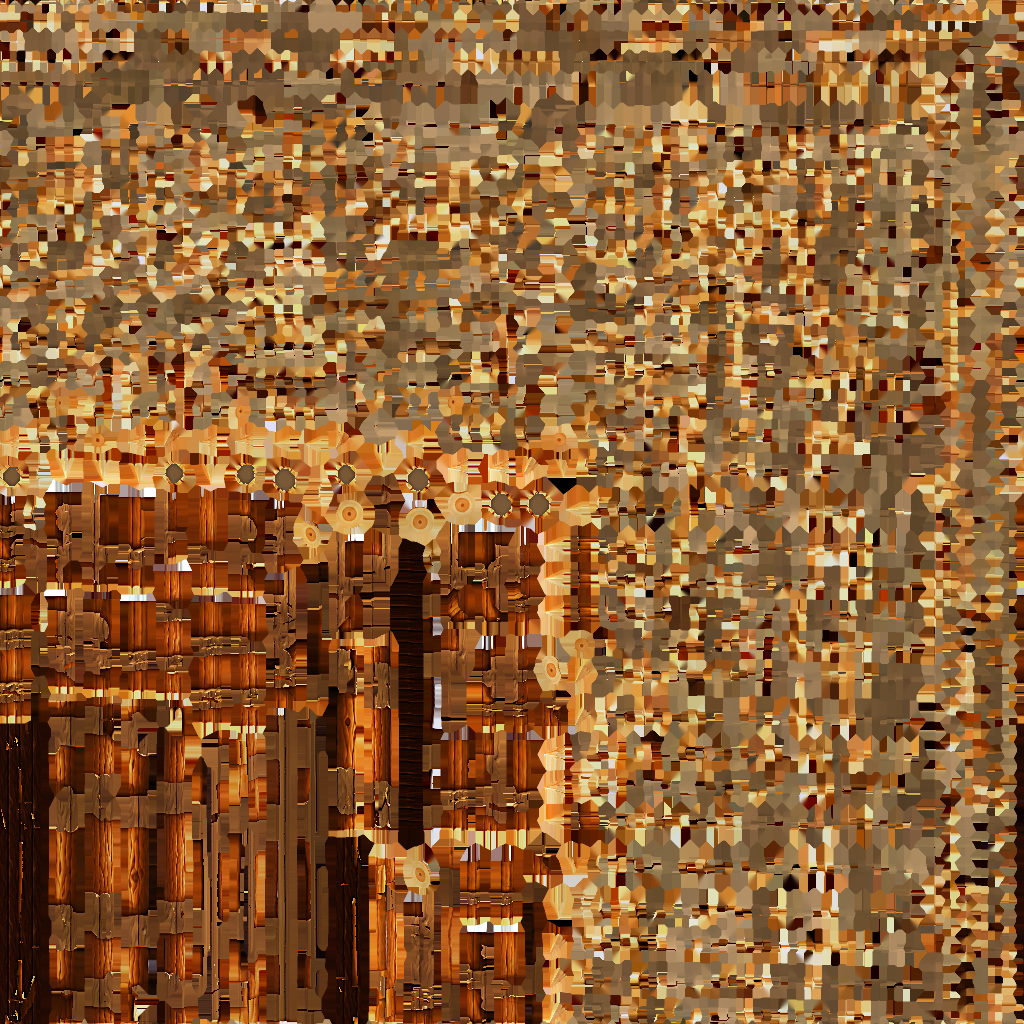
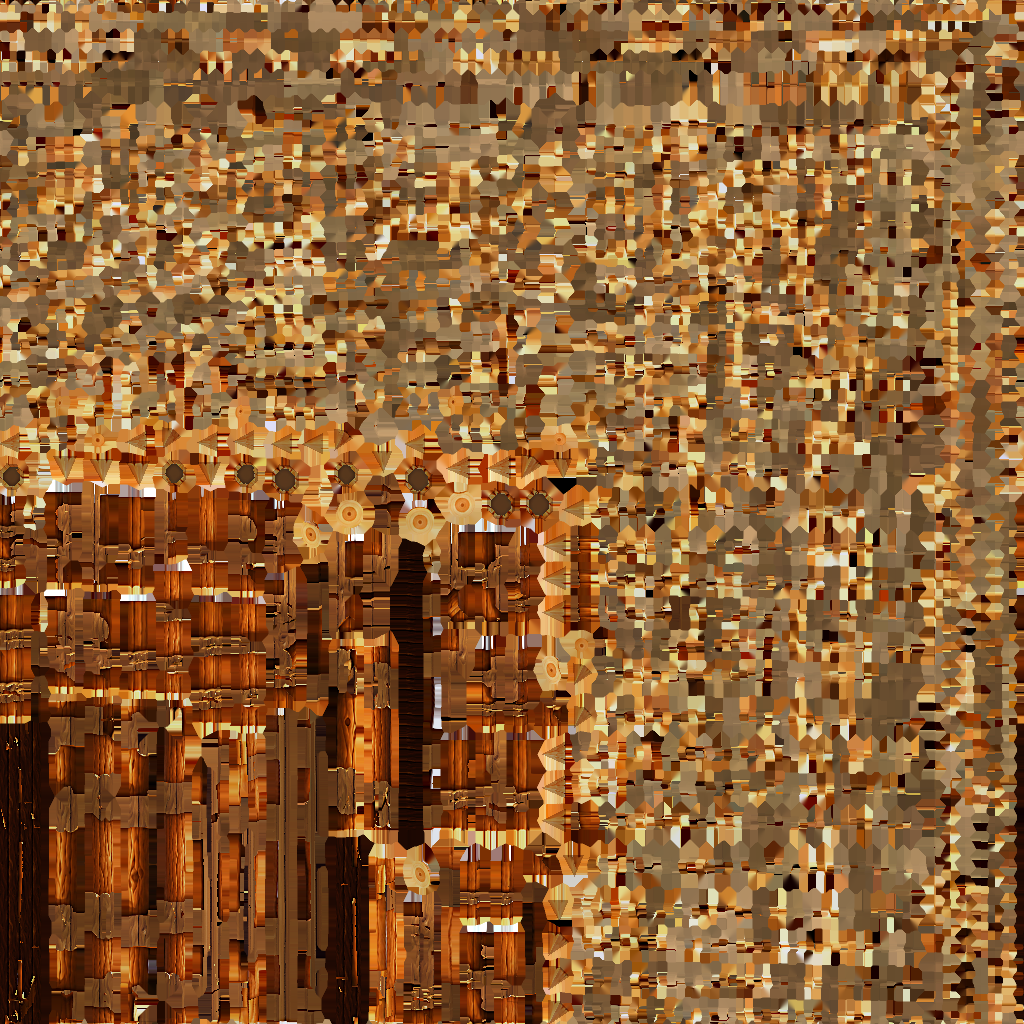
Oak Barricade Level 1 round 13: pencil tips toned to a darker, warmer wood after the grade
art/blender/tone_tips.py changes only the texels inside the points' cones (POSTS printed by the builder with
HTD_PRINT_POSTS=1). Gates still pass (outline 96.4%, colour 9.8, detail 0.89), judge 6 / 8 / 7.

diff --git a/art/blender/tone_tips.py b/art/blender/tone_tips.py
@@ -1,0 +1,72 @@
+"""Tones the pencil points of a barricade's paint down to a darker, warmer wood after the grade (on a phone the bright
+points stole the eye). Only texels inside a point's cone change.
+Run: blender -b -P tone_tips.py -- model.fbx paint.png posts.json out.png [r g b]"""
+import json
+import math
+import os
+import sys
+
+import bpy
+import numpy as np
+
+HERE = os.path.dirname(os.path.abspath(__file__))
+args = sys.argv[sys.argv.index("--") + 1:]
+fbx, paint, posts_path, out = [os.path.abspath(a) for a in args[:4]]
+gain = np.array([float(v) for v in args[4:7]]) if len(args) >= 7 else np.array([0.72, 0.62, 0.52])
+posts = json.load(open(posts_path))
+
+bpy.ops.wm.read_factory_settings(use_empty=True)
+bpy.ops.import_scene.fbx(filepath=fbx)
+body = next(o for o in bpy.context.scene.objects if o.type == "MESH" and o.name.startswith("Body"))
+bpy.context.view_layer.objects.active = body
+body.select_set(True)
+bpy.ops.object.transform_apply(location=True, rotation=True, scale=True)
+
+img = bpy.data.images.load(paint)
+w, h = img.size
+px = np.empty(w * h * 4, dtype=np.float32)
+img.pixels.foreach_get(px)
+px = np.flipud(px.reshape(h, w, 4))
+
+m = body.data
+m.calc_loop_triangles()
+verts = np.array([v.co[:] for v in m.vertices])
+uv = m.uv_layers.active.data
+changed = np.zeros((h, w), dtype=bool)
+
+
+def in_tip(p):
+    for x, y, r, top, tip in posts:
+        if top - tip - 0.03 <= p[2] <= top + 0.03:
+            rr = r * 1.06 * max(0.0, (top - p[2]) / tip) + 0.04
+            if math.hypot(p[0] - x, p[1] - y) <= rr:
+                return True
+    return False
+
+
+for lt in m.loop_triangles:
+    tri = verts[list(lt.vertices)]
+    cen = tri.mean(axis=0)
+    if not in_tip(cen):
+        continue
+    uvs = np.array([uv[li].uv[:] for li in lt.loops]) * [w, h]
+    uvs[:, 1] = h - uvs[:, 1]
+    x0, x1 = int(max(0, math.floor(uvs[:, 0].min()) - 1)), int(min(w - 1, math.ceil(uvs[:, 0].max()) + 1))
+    y0, y1 = int(max(0, math.floor(uvs[:, 1].min()) - 1)), int(min(h - 1, math.ceil(uvs[:, 1].max()) + 1))
+    (ax, ay), (bx, by), (cx, cy) = uvs
+    den = (by - cy) * (ax - cx) + (cx - bx) * (ay - cy)
+    if abs(den) < 1e-9:
+        continue
+    ys, xs = np.mgrid[y0:y1 + 1, x0:x1 + 1]
+    a = ((by - cy) * (xs + 0.5 - cx) + (cx - bx) * (ys + 0.5 - cy)) / den
+    b = ((cy - ay) * (xs + 0.5 - cx) + (ax - cx) * (ys + 0.5 - cy)) / den
+    inside = (a >= -0.05) & (b >= -0.05) & (1 - a - b >= -0.05)
+    changed[ys[inside], xs[inside]] = True
+
+px[changed, :3] *= gain
+out_img = bpy.data.images.new("out", w, h, alpha=True)
+out_img.pixels.foreach_set(np.flipud(px).ravel())
+out_img.filepath_raw = out
+out_img.file_format = "PNG"
+out_img.save()
+print("TONED", out, "texels", int(changed.sum()))

diff --git a/art/blender/tower_barricade_detail.py b/art/blender/tower_barricade_detail.py
@@ -348,6 +348,9 @@ for s in (-1, 1):
         POSTS.append((s * WX + side * 0.06, side * post_y(WR), WR, wing_h, "wing"))
 if CENTRE:
     POSTS = [p for p in POSTS if p[4] == "big"]
+if os.environ.get("HTD_PRINT_POSTS"):   # (scripts/tone_tips.py finds the pencil points with it)
+    print("POSTS " + json.dumps([[x, y, r, h, r * P["tip"]] for x, y, r, h, _ in POSTS]), flush=True)
+    os._exit(0)
 for k, (x, y, r, h, kind) in enumerate(POSTS):
     post(f"Post{k}", x, y, h, r)
     if stage == "l1" and kind == "big":

diff --git a/reviews/towers/barricade_l1/rounds.md b/reviews/towers/barricade_l1/rounds.md
@@ -40,3 +40,8 @@ From round 9 on, Level 1 is scored against art/ref3d/tower_barricade_l1_fit_cam.
   bands (dE, lightness picture/model): roof 1 (L 52/51)  lookout 9 (L 37/40)  wall 4 (L 43/45)  footing 15 (L 39/45)
   judge (blind Gemini, three tries on the same render): round 9: 8, 7, 7; round 10: 7, 6, 6; round 11: 6, 7, 7; round 12: 7, 7, 8
 - best: round 12 (all measured gates pass, judge 7-8)
+- round 13: round 12 with the pencil tips toned to a darker, warmer wood after the grade (tips only, x0.72/0.62/0.52)
+  IoU 96.4%  width profile off 3.6%  region colour dE 9.8  (pixel dE 43.0)  detail 16.2% vs picture 18.3% (ratio 0.89)  PASS  [pass: IoU >= 90%, region dE <= 10.0, detail ratio 0.85-1.3]
+  bands (dE, lightness picture/model): roof 5 (L 52/47)  lookout 9 (L 37/40)  wall 4 (L 43/45)  footing 15 (L 39/45)
+  round 13 judge: 6, 8, 7
+- best: round 13 (round 12 with toned tips; all measured gates pass, judge median 7 like round 12)
